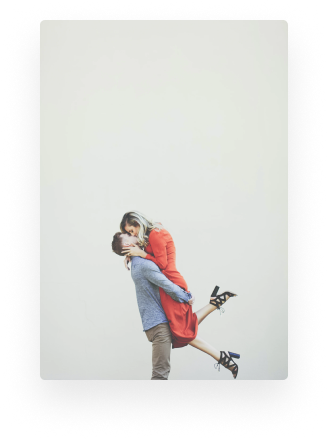
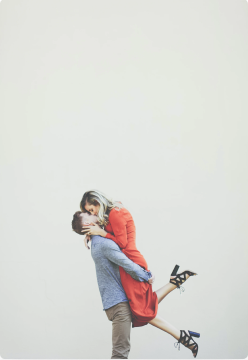
images background done

diff --git a/src/modules/Main/main.scss b/src/modules/Main/main.scss
@@ -19,7 +19,6 @@
             border-radius: 5px;
             &-logo {
                 span {
-                    margin-top: 15px;
                     font-family: 'Open Sans';
                     font-style: normal;
                     font-weight: 400;
@@ -34,6 +33,10 @@
 }
 
 .mts {
+    background-image: url('../../images/mts.png');
+    background-position: center 360px;
+    background-repeat: no-repeat;
+    transition: .5s ease;
     div.main__works-block-logo {
         display: flex;
         flex-direction: column;
@@ -43,11 +46,11 @@
         margin-top: 143px;
         margin-left: 56px;
         transition: .5s ease;
-    }
-    img {
-        width: 135px;
-        height: 33px;
-        transition: .5s ease;
+        img {
+            width: 135px;
+            height: 33px;
+            transition: .5s ease;
+        }
     }
     span {
         margin-top: 15px;
@@ -55,6 +58,7 @@
     }
 }
 .mts:hover {
+    background-position: center;
     div.main__works-block-logo {
         margin-left: 56px;
         margin-top: 76px;
@@ -72,6 +76,10 @@
 }
 
 .maxim {
+    background-image: url('../../images/maxim.png');
+    background-position: center 360px;
+    background-repeat: no-repeat;
+    transition: .5s ease;
     div.main__works-block-logo {
         margin-top: 153px;
         margin-left: 48px;
@@ -84,6 +92,7 @@
     }
 }
 .maxim:hover {
+    background-position: center;
     div.main__works-block-logo {
         margin-top: 276px;
         margin-left: 75px;
@@ -97,6 +106,10 @@
 }
 
 .playboy {
+    background-image: url('../../images/playboy.png');
+    background-position: center 360px;
+    background-repeat: no-repeat;
+    transition: .5s ease;
     div.main__works-block-logo {
         margin-top: 112px;
         margin-left: 80px;
@@ -110,6 +123,7 @@
     }
 }
 .playboy:hover {
+    background-position: center;
     div.main__works-block-logo {
         margin-top: 21px;
         margin-left: 107px;
@@ -118,12 +132,16 @@
     svg {
         width: 34px;
         height: 53px;
-        fill: #6e6e6e;
+        fill: #ffffff;
         transition: .5s ease;
     }
 }
 
 .beeline {
+    background-image: url('../../images/beeline.png');
+    background-position: center 360px;
+    background-repeat: no-repeat;
+    transition: .5s ease;
     div.main__works-block-logo {
         display: flex;
         flex-direction: column;
@@ -145,6 +163,7 @@
     }
 }
 .beeline:hover {
+    background-position: center;
     div.main__works-block-logo {
         margin-top: 24px;
         transition: .5s ease;
@@ -161,6 +180,10 @@
 }
 
 .tele2 {
+    background-image: url('../../images/tele2.png');
+    background-position: center 360px;
+    background-repeat: no-repeat;
+    transition: .5s ease;
     div.main__works-block-logo {
         display: flex;
         flex-direction: column;
@@ -184,6 +207,7 @@
     }
 }
 .tele2:hover {
+    background-position: center;
     div.main__works-block-logo {
         width: 86px;
         height: 63px;
@@ -195,11 +219,192 @@
         width: 86px;
         height: 33px;
         transition: .5s ease;
-        fill: #6e6e6e;
+        fill: #ffffff;
     }
     span {
         margin-top: 3px;
-        color: #6e6e6e;
+        color: #ffffff;
+        transition: .5s ease;
+    }
+}
+
+.behealthy {
+    background-image: url('../../images/behealthy.png');
+    background-position: center 360px;
+    background-repeat: no-repeat;
+    transition: .5s ease;
+    div.main__works-block-logo {
+        display: flex;
+        flex-direction: column;
+        align-items: center;
+        width: 120px;
+        height: 162px;
+        margin-top: 99px;
+        margin-left: 64px;
+        transition: .5s ease;
+    }
+    img {
+        width: 120px;
+        height: 120px;
+        transition: .5s ease;
+    }
+    span {
+        margin-top: 15px;
+        transition: .5s ease;
+    }
+}
+.behealthy:hover {
+    background-position: center;
+    div.main__works-block-logo {
+        margin-top: 26px;
+        transition: .5s ease;
+    }
+    img {
+        width: 64px;
+        height: 64px;
+        transition: .5s ease;
+    }
+    span {
+        margin-top: 9px;
+        transition: .5s ease;
+    }
+}
+
+.mymusic {
+    background-image: url('../../images/mymusic.png');
+    background-position: center 360px;
+    background-repeat: no-repeat;
+    transition: .5s ease;
+    div.main__works-block-logo {
+        margin-top: 160px;
+        margin-left: 62px;
+        transition: .5s ease;
+    }
+    img {
+        width: 123px;
+        height: 39.46px;
+        transition: .5s ease;
+    }
+}
+.mymusic:hover {
+    background-position: center;
+    div.main__works-block-logo {
+        margin-left: 62px;
+        margin-top: 47px;
+        transition: .5s ease;
+    }
+}
+
+.houses {
+    background-image: url('../../images/houses.png');
+    background-position: center 360px;
+    background-repeat: no-repeat;
+    transition: .5s ease;
+    div.main__works-block-logo {
+        margin-top: 108px;
+        margin-left: 63px;
+        transition: .5s ease;
+    }
+    img {
+        width: 123px;
+        height: 144px;
+        transition: .5s ease;
+    }
+}
+.houses:hover {
+    background-position: center;
+    div.main__works-block-logo {
+        margin-left: 87.77px;
+        margin-top: 35px;
+        transition: .5s ease;
+    }
+    img {
+        width: 73.46px;
+        height: 86px;
+        transition: .5s ease;
+    }
+}
+
+.riamo {
+    background-image: url('../../images/riamo.png');
+    background-position: center 360px;
+    background-repeat: no-repeat;
+    transition: .5s ease;
+    div.main__works-block-logo {
+        display: flex;
+        flex-direction: column;
+        align-items: center;
+        width: 120px;
+        height: 164px;
+        margin-top: 98px;
+        margin-left: 64px;
+        transition: .5s ease;
+    }
+    img {
+        width: 120px;
+        height: 120px;
+        transition: .5s ease;
+    }
+    span {
+        margin-top: 17px;
+        transition: .5s ease;
+    }
+}
+.riamo:hover {
+    background-position: center;
+    div.main__works-block-logo {
+        margin-top: 27px;
+        transition: .5s ease;
+    }
+    img {
+        width: 44px;
+        height: 44px;
+        transition: .5s ease;
+    }
+    span {
+        margin-top: 10px;
+        transition: .5s ease;
+    }
+}
+
+.burger {
+    background-image: url('../../images/burger.png');
+    background-position: center 360px;
+    background-repeat: no-repeat;
+    transition: .5s ease;
+    div.main__works-block-logo {
+        display: flex;
+        flex-direction: column;
+        align-items: center;
+        width: 143px;
+        margin-top: 234px;
+        margin-left: 53px;
+        transition: .5s ease;
+    }
+    img {
+        width: 120px;
+        height: 120px;
+        transition: .5s ease;
+    }
+    span {
+        // margin-top: 15px;
+        transition: .5s ease;
+    }
+}
+.burger:hover {
+    background-position: center;
+    div.main__works-block-logo {
+        margin-top: 89px;
+        transition: .5s ease;
+    }
+    img {
+        width: 44px;
+        height: 44px;
+        transition: .5s ease;
+    }
+    span {
+        margin-top: 10px;
+        color: #FFFFFF;
         transition: .5s ease;
     }
 }

diff --git a/src/modules/Main/Main.jsx b/src/modules/Main/Main.jsx
@@ -10,8 +10,6 @@ import mymusic from '../../logos/mymusic.svg';
 import houses from '../../logos/houses.svg';
 import riamo from '../../logos/riamo.svg';
 
-import mtsImg from '../../images/mts.png';
-
 const Main = () => {
     return (
         <div className='main__content'>
